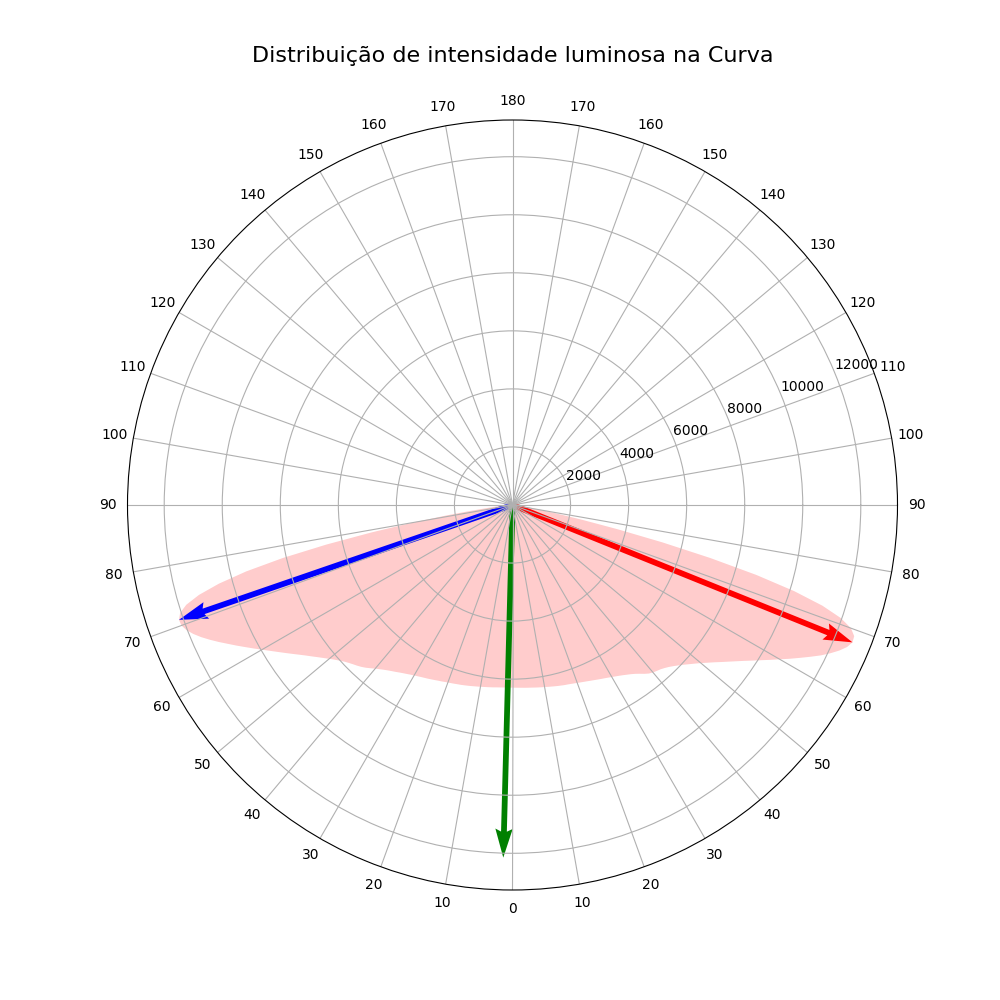
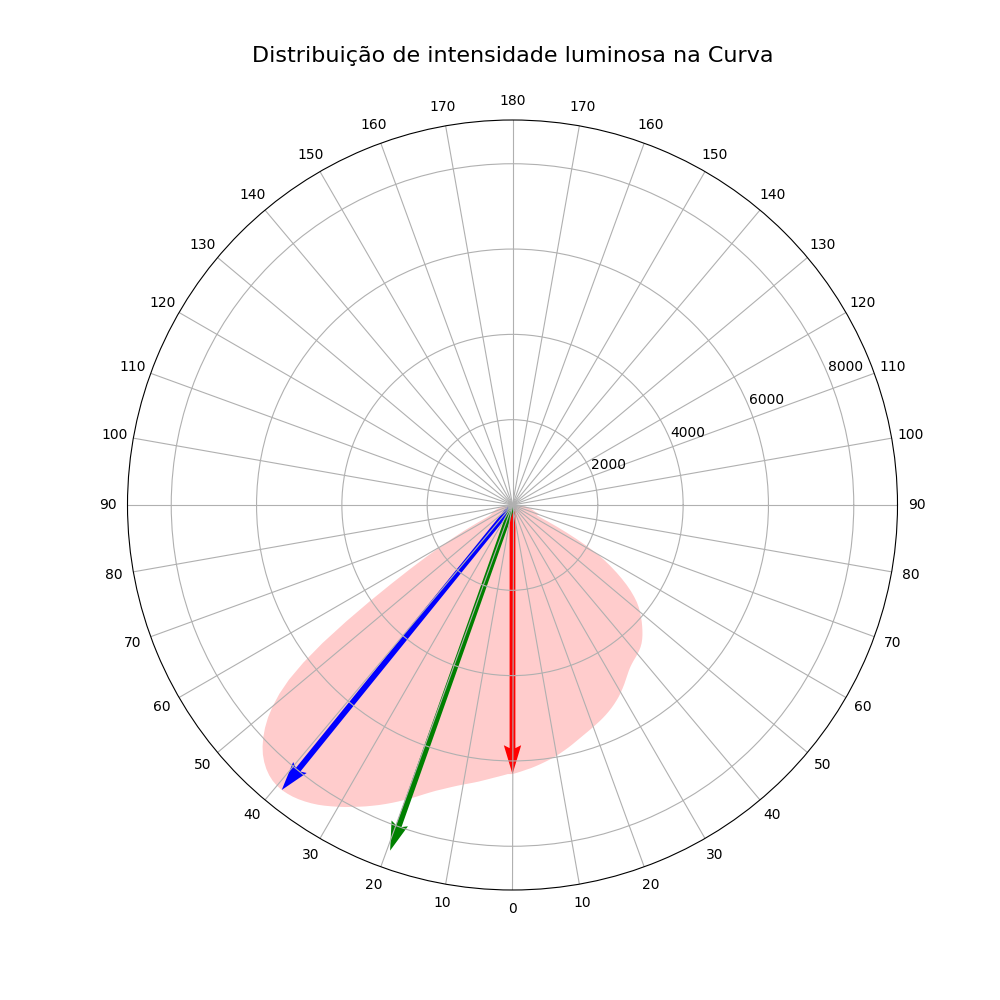
salva imagens

diff --git a/VisualIES modify.py b/VisualIES modify.py
@@ -4,7 +4,7 @@ import math
 import statistics as st
 
 filt = 0.1
-angulo = 6
+angulo = 0
 page = './out/'
 
 
@@ -169,7 +169,7 @@ class IES(object):
         return self.dic
 
 
-ies1 = IES("m2.ies")
+ies1 = IES("m1.ies")
 
 Valplt = coord(ies1.Cd(), angulo)  # valor em Cd para cada angulo
 
@@ -209,7 +209,7 @@ plt.quiver(0, 0, maxme[1]*np.pi/180-np.pi/2, maxme[0], color='blue',
 plt.quiver(0, 0, meio*np.pi/180-np.pi/2, maxme[0], color='g',
            angles="xy", scale_units='xy', scale=1.)
 plt.savefig(page+'Distribuição.png')
-
+# plt.show()
 
 plt.figure(figsize=(10, 10))
 plt.subplot(2, 1, 1)
@@ -231,15 +231,15 @@ plt.subplot(2, 1, 2)
 plt.fill(grad(Valplt)[:180], dif(Valplt[180:],
          Valplt[0:180]), color='r', alpha=0.2)
 
-plt.text(8, 13, 'Média da diferença = '+str(st.mean(dif(Valplt[180:],
-                                                        Valplt[0:180])))[:5]+"%", style='italic')
+plt.text(8, st.mean(dif(Valplt[180:], Valplt[0:180])), 'Média da diferença = '+str(st.mean(dif(Valplt[180:],
+                                                                                               Valplt[0:180])))[:5]+"%", style='italic')
 '''plt.scatter(grad(Valplt)[:180], dif(Valplt[180:],
                                     Valplt[0:180]), c=dif(Valplt[180:], Valplt[0:180]))'''
 plt.axhline(y=st.mean(dif(Valplt[180:],
                           Valplt[0:180])), color='r', linestyle='-', alpha=0.6)
 
 plt.savefig(page+'Simetria.png')
-plt.show()
+# plt.show()
 
 '''plt.quiver(0, 0, maxmd[1], maxmd[0], color='red',
            angles="xy", scale_units='xy', scale=1.)
